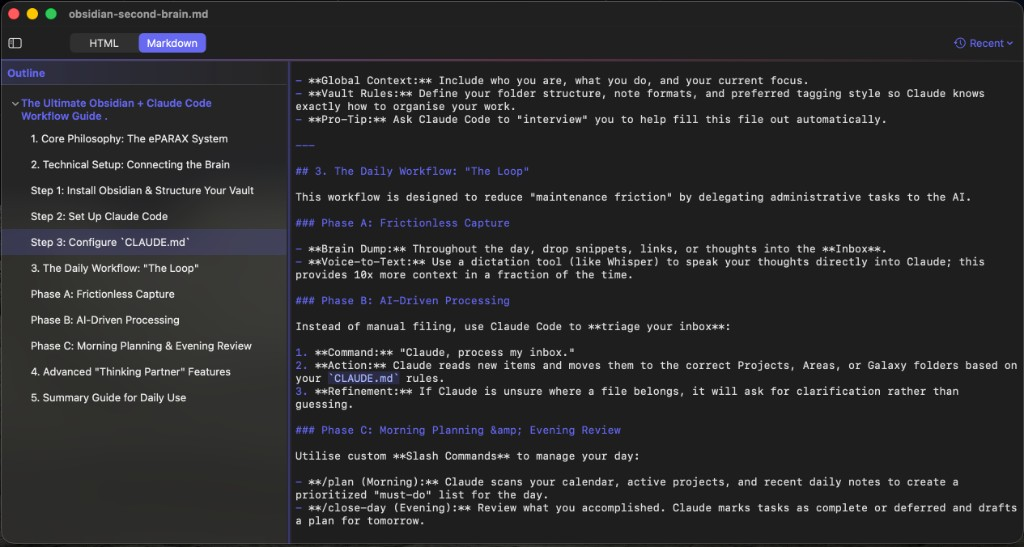
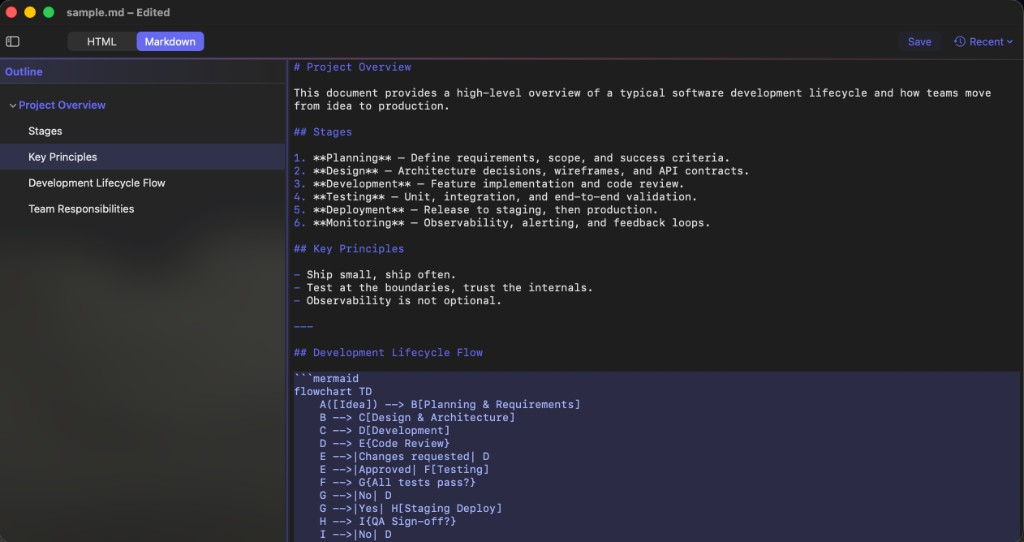
Refresh README copy and screenshot assets
Expand the intro and feature list for styled reading, Mermaid, and
customization. Replace HTML and Markdown screenshots and add an HTML
+Mermaid capture in the Screenshots section.

diff --git a/README.md b/README.md
@@ -1,6 +1,8 @@
 # HiMarkDown
 
-A native macOS Markdown editor with a beautiful WYSIWYG **HTML** mode (powered by TipTap) and a syntax-highlighted **Markdown** source mode side by side. Outline navigation, find/replace, full undo/redo, and a themed UI that adapts to light & dark appearance.
+A **lightweight native macOS** Markdown app for people who live in `.md` files: read your notes in a **clear, typographic layout** that feels like a real document—not a wall of hashes and fences—while still **editing naturally**, as if you were writing in a simple blog editor, without the weight of a full IDE. Switch to syntax-highlighted **Markdown** source whenever you want the raw text.
+
+**Mermaid** diagrams in Markdown code fences tagged `mermaid` render as **live charts** in HTML mode (with source preview when you need to tweak the syntax). The look of the page is **highly customizable**: typography, colors, content width, and accents are yours to tune in **Settings → Style**, with presets for light, dark, and themed chrome.
 
 **Created and maintained by [rg1989](https://github.com/rg1989).** Source code and releases: **[github.com/rg1989/HiMarkDown](https://github.com/rg1989/HiMarkDown)**.
 
@@ -12,7 +14,11 @@ A native macOS Markdown editor with a beautiful WYSIWYG **HTML** mode (powered b
 
 ![HiMarkDown HTML mode with outline sidebar](docs/readme/screenshot-html-mode.png)
 
-**Markdown mode** — syntax-highlighted source editing with the same outline for quick jumps.
+**HTML mode — Mermaid** — the same view with a live diagram from a `mermaid` code fence; use the toolbar control to switch back to source when you want to edit the chart text.
+
+![HiMarkDown HTML mode showing a rendered Mermaid flowchart](docs/readme/screenshot-html-mermaid.png)
+
+**Markdown mode** — syntax-highlighted source editing with the same outline for quick jumps (including fenced `mermaid` blocks as plain text when you need the raw syntax).
 
 ![HiMarkDown Markdown mode with outline sidebar](docs/readme/screenshot-markdown-mode.png)
 
@@ -20,9 +26,9 @@ A native macOS Markdown editor with a beautiful WYSIWYG **HTML** mode (powered b
 
 ## Why this project exists
 
-If you work a lot with AI tooling, you live in Markdown: plans, agent skills, READMEs, handoff notes, and long context files are almost always `.md`. That is great for machines and diffs, but it creates a daily friction: **opening a full development environment** (Cursor, VS Code, or similar) just to *read* or lightly edit a single file feels heavy, and **raw Markdown in a plain text buffer** is not how humans prefer to skim structure. Headings, lists, and code blocks are all “there,” but they are not easy to scan or navigate the way a rendered page is.
+If you work a lot with AI tooling, you live in Markdown: plans, agent skills, READMEs, handoff notes, and long context files are almost always `.md`. That is great for machines and diffs, but it creates a daily friction: **opening a full development environment** (Cursor, VS Code, or similar) just to *read* or lightly edit a single file feels heavy, and **raw Markdown in a plain text buffer** is not how humans prefer to skim structure. Headings, lists, and code blocks are all “there,” but they are not easy to scan or navigate the way a styled, readable page is.
 
-HiMarkDown is a **small, focused native app** built for that workflow. It opens Markdown files like any other document app, renders them as **readable HTML** so structure and typography match how you actually consume the content, lets you **edit in that HTML view** when you want a WYSIWYG surface, and keeps a **syntax-highlighted source mode** when you need the raw text. A **heading outline** gives you a table-of-contents for the file: jump to sections quickly instead of scrolling through hashes and asterisks. The goal is comfort and speed for everyday Markdown—not a second IDE.
+HiMarkDown is a **small, focused native app** built for that workflow. It opens Markdown files like any other document app, renders them as **readable HTML** so structure and typography match how you actually consume the content, lets you **edit in that HTML view** when you want a WYSIWYG surface that does not get in your way, and keeps a **syntax-highlighted source mode** when you need the raw text. **Mermaid** blocks become diagrams you can actually *see*—important for architecture notes, flowcharts, and timelines—without pasting into another tool. A **heading outline** gives you a table-of-contents for the file: jump to sections quickly instead of scrolling through hashes and asterisks. You can **personalize** how the document looks (fonts, colors, width) so long reading sessions stay comfortable. The goal is comfort and speed for everyday Markdown—not a second IDE.
 
 This repository is **open source** so anyone with the same itch can use it, improve it, or adapt it. If that sounds like your day job too, you are the audience.
 
@@ -91,10 +97,12 @@ To produce a signed `.app.zip` + `.dmg` in `dist/` (the same way CI does):
 ## Features
 
 - **Two modes, one document.** Toggle between rich HTML rendering (TipTap) and the raw Markdown source. Scroll position and outline anchor are preserved across the switch.
+- **Styled reading, natural editing** — HTML mode presents your file with real typography and spacing so structure is easy to see; you can edit inline without fighting raw syntax for everyday changes.
+- **Mermaid diagrams** — fenced `mermaid` code blocks render as SVG previews in HTML mode, with a simple source / diagram toggle for editing the chart text.
 - **Outline sidebar** — collapsible heading tree, click to jump (with a yellow flash). Resizable column with persisted width.
 - **Themed UI** — Indigo brand chrome across the toolbar, sidebar and welcome hero. Adapts to light & dark macOS appearance.
 - **Markdown syntax highlighting** in the source mode — headings, bold/italic, inline code, fenced code blocks, links, lists, blockquotes, and horizontal rules.
-- **Custom HTML rendering** — every visual element (page background, body text, headings, links, code blocks, blockquote border, accent color, font stack, content width) is editable from **Settings → Style**, with light/dark/themed quick presets.
+- **Custom HTML rendering** — every visual element (page background, body text, headings, links, code blocks, blockquote border, accent color, font stack, content width) is editable from **Settings → Style**, with light/dark/themed quick presets so you can personalize the reading experience.
 - **Full undo/redo** that spans both modes (single document UndoManager).
 - **Find & Replace** in both modes.
 - **Markdown file association** — opens `.md`, `.markdown`, `.mdown` from Finder, double-click, and recent files.